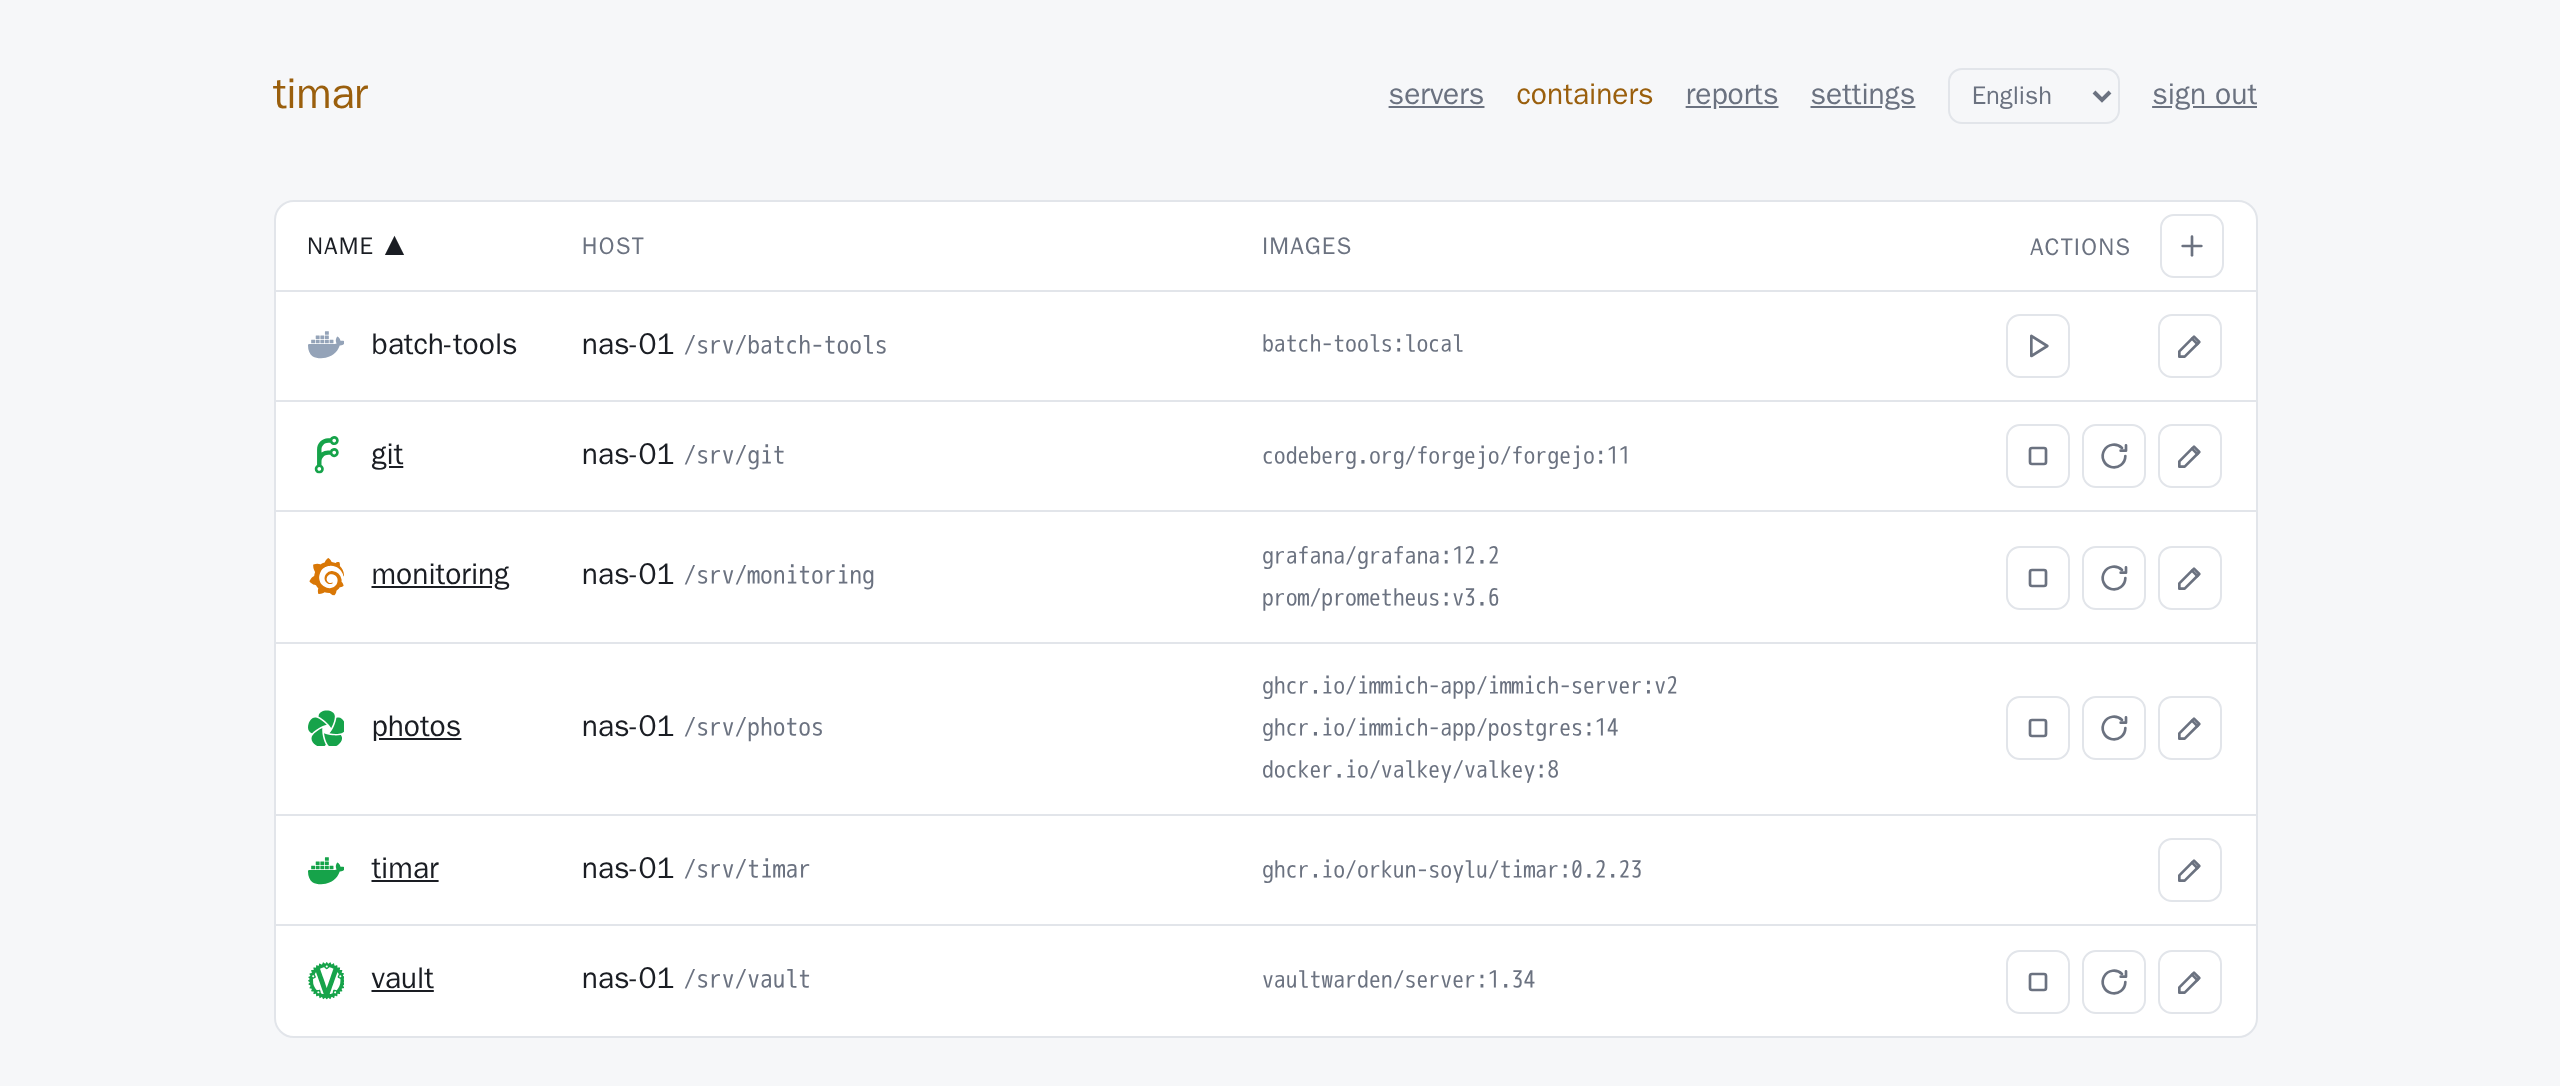
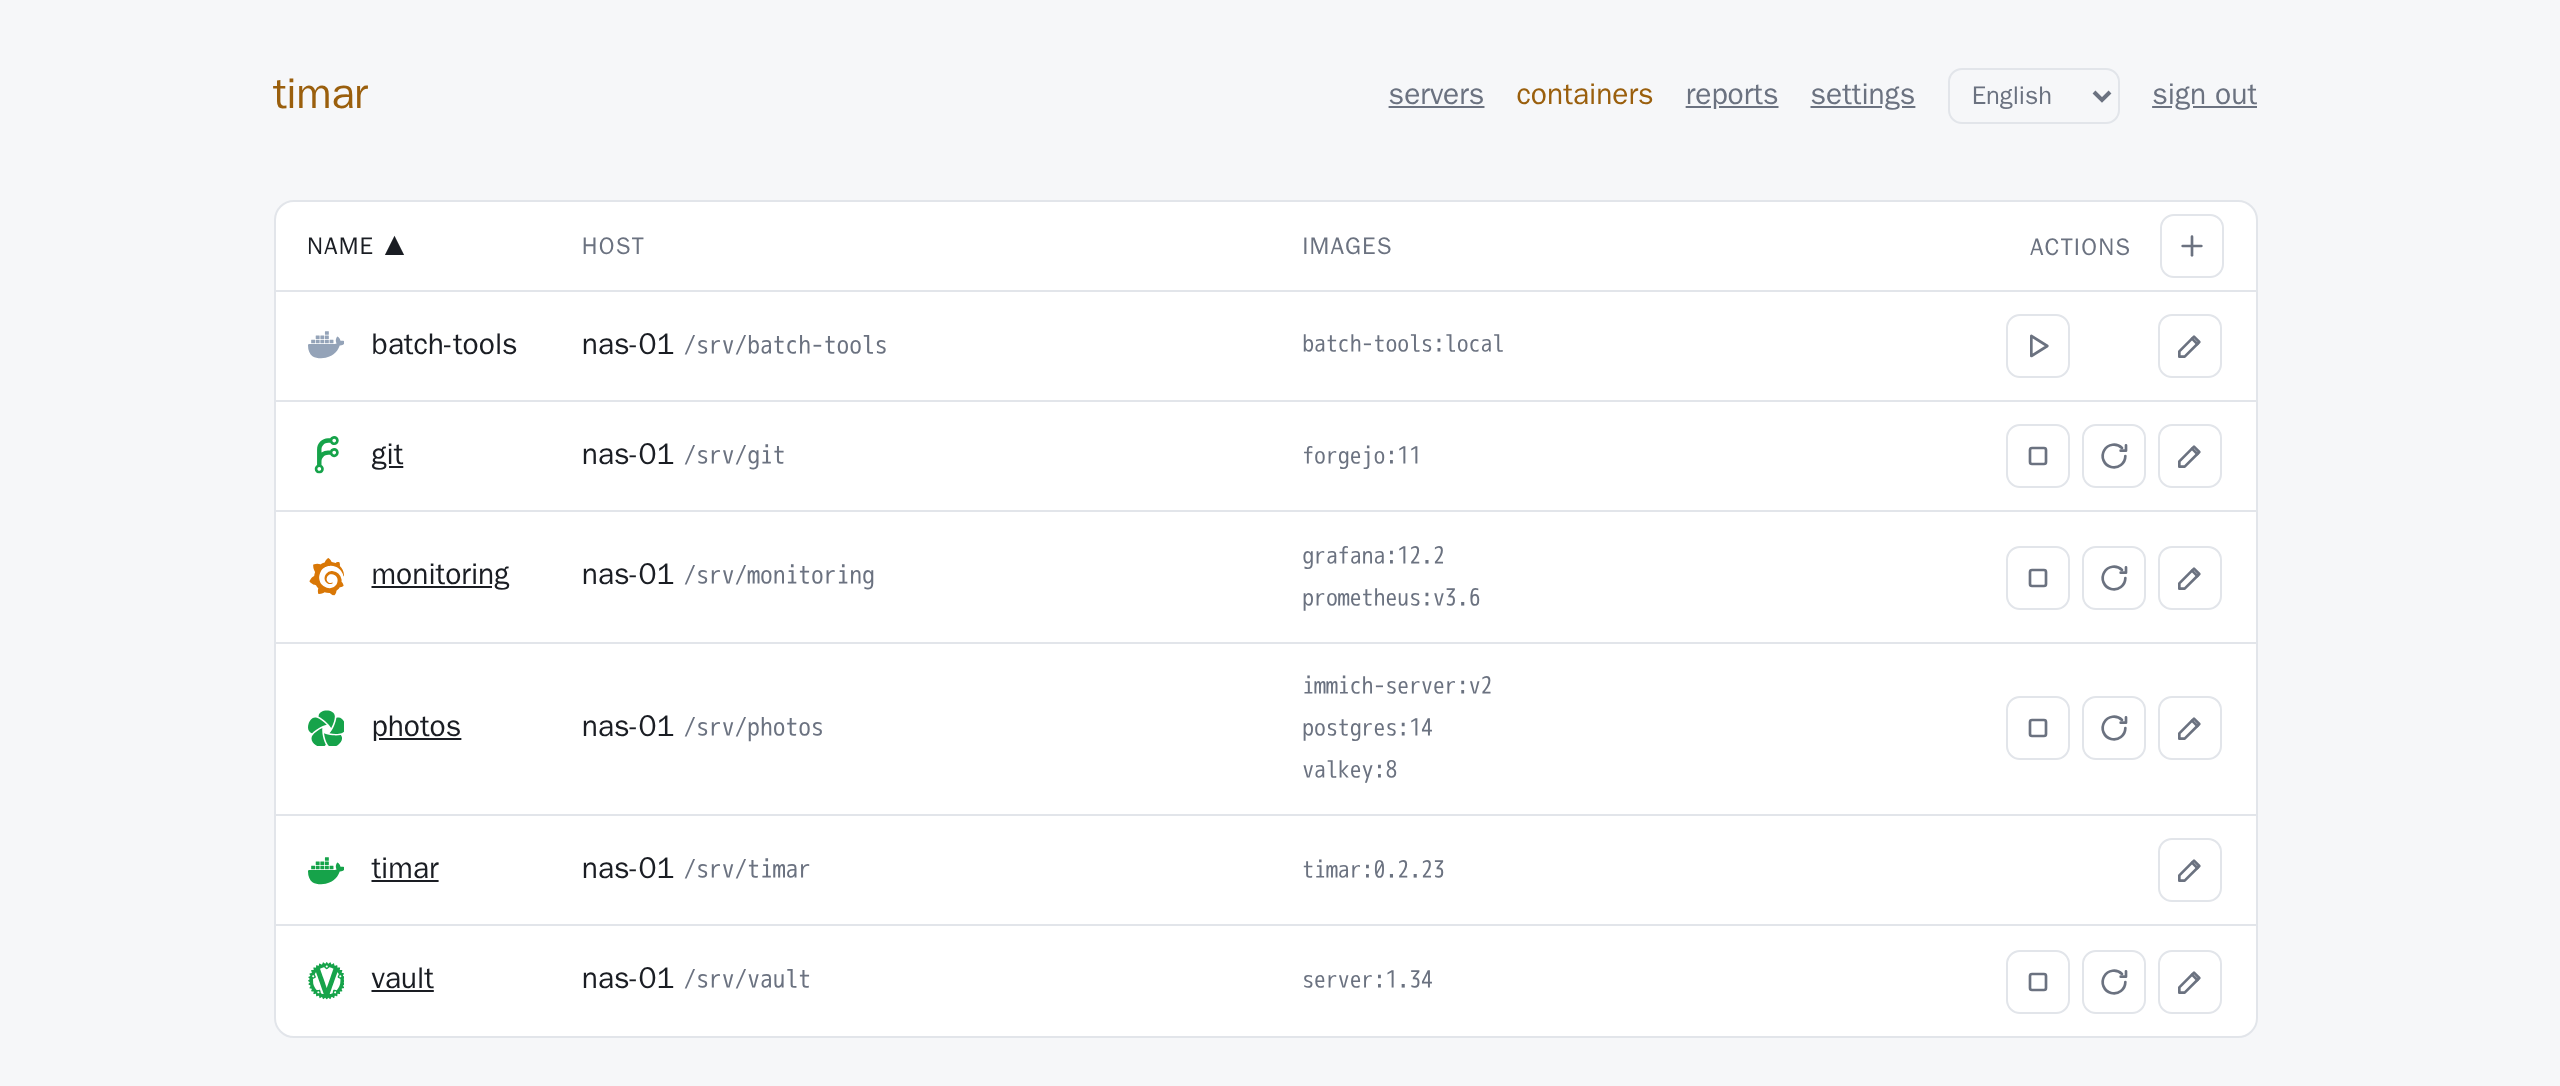
feat: short image names in the containers table (#83)
The images column showed whole references: registry, owner, tag and, before the cut, a digest.
`ghcr.io/immich-app/immich-server:v2` is now `immich-server:v2`. The full reference is the
cell's tooltip, so nothing is lost; that matters for names that are ambiguous once shortened,
such as `vaultwarden/server` becoming `server`. An image known only by its id shows
`sha256:` plus twelve characters, as `docker ps` does.

During the change, `short_image` was first inserted in the middle of `ProjectStatus`. That ended
the class early and swallowed its `running` property. Jinja read the missing attribute as false:
no links, no stop or restart buttons. The existing page test caught it, and the function now
sits outside the class.

Verified: 642 tests pass. Demo screenshots re-captured at the same size.

diff --git a/timar/web/templates/_containers.html b/timar/web/templates/_containers.html
@@ -29,7 +29,7 @@
         <a href="{{ p.web_url }}" target="_blank" rel="noopener noreferrer" title="{{ p.web_url }}">{{ p.name }}</a>
         {%- else %}{{ p.name }}{% endif %}</td>
       <td class="col-mid">{{ p.server }} <code class="wide">{{ p.path }}</code></td>
-      <td class="col-mid wide muted">{% for image in p.images %}<div><code>{{ image.split('@')[0] }}</code></div>{% else %}—{% endfor %}</td>
+      <td class="col-mid wide muted">{% for shown, full in p.image_rows %}<div><code title="{{ full }}">{{ shown }}</code></div>{% else %}—{% endfor %}</td>
       <td class="col-edge"><div class="icon-row">
         {%- if p.is_self %}
           <span class="icon-slot" title="{{ _("timar itself — not stopped from here") }}"></span><span class="icon-slot"></span>

diff --git a/tests/test_containers.py b/tests/test_containers.py
@@ -190,6 +190,22 @@ class TestAppLogo:
         assert containers._remembered_logo("h:/srv/other", "other", ()) == "docker"
 
 
+class TestShortImage:
+    """The images column shows what runs and at which tag; the full reference is the tooltip."""
+
+    @pytest.mark.parametrize("image, shown", [
+        ("ghcr.io/immich-app/immich-server:v2", "immich-server:v2"),
+        ("ghcr.io/immich-app/postgres:14@sha256:" + "a" * 64, "postgres:14"),     # digest dropped
+        ("vaultwarden/server:1.34", "server:1.34"),
+        ("traefik:v3", "traefik:v3"),
+        ("localhost:5000/team/app:1.2", "app:1.2"),       # a registry port is not a tag
+        ("app-app-backend", "app-app-backend"),            # a local build, untouched
+        ("sha256:" + "68b2a218869a" + "0" * 52, "sha256:68b2a218869a"),   # known only by its id
+    ])
+    def test_shown(self, image, shown):
+        assert containers.short_image(image) == shown
+
+
 class TestPage:
     @pytest.fixture
     def page(self, client, monkeypatch):
@@ -223,6 +239,20 @@ class TestPage:
         # Nothing created yet and no images ever seen: the whale.
         asleep = rows.split('<tr class="asleep">', 1)[1].split("</td>", 1)[0]
         assert "logos.svg#docker" in asleep and "· Docker" in asleep
+
+    def test_an_image_is_shown_short_with_the_whole_reference_on_hover(self, client, monkeypatch):
+        from timar import config
+        complete_setup(client)
+        config.save({"servers": [{"name": "docker-01", "host": "10.0.0.6", "user": "op", "platform": "linux"}],
+                     "containers": [{"name": "photos", "server": "docker-01", "path": "/srv/photos"}]})
+        monkeypatch.setattr(containers.fleet_status, "_probe", lambda host: True)
+        monkeypatch.setattr(containers, "self_container_id", lambda: None)
+        monkeypatch.setattr(containers, "_host_containers", lambda server: containers.HostContainers(
+            by_dir=containers.parse_ps(ps_line("/srv/photos", "immich-server",
+                                               image="ghcr.io/immich-app/immich-server:v2"))))
+        containers.invalidate()
+        rows = client.get("/fragments/containers").text
+        assert '<code title="ghcr.io/immich-app/immich-server:v2">immich-server:v2</code>' in rows
 
     def test_the_page_carries_the_menu_and_requires_a_session(self, page):
         assert 'aria-current="page">containers<' in page.get("/containers").text

diff --git a/timar/containers.py b/timar/containers.py
@@ -84,8 +84,27 @@ class ProjectStatus:
         return APP_LOGOS.get(self.logo, "Docker")
 
     @property
+    def image_rows(self) -> list[tuple[str, str]]:
+        """(shown, full) per image: the table shows the short name, the tooltip the whole one."""
+        return [(short_image(i), i.split("@")[0]) for i in self.images]
+
+
+    @property
     def running(self) -> bool:
         return self.state in ("up", "warn")
+
+
+def short_image(image: str) -> str:
+    """`ghcr.io/immich-app/immich-server:v2@sha256:…` → `immich-server:v2`.
+
+    The registry and the owner are dropped: the column is read for *what* runs and at which tag,
+    and the full reference, three times as long, pushed every row onto two lines. An image known
+    only by its id keeps twelve characters of it, as `docker ps` does.
+    """
+    ref = image.split("@")[0]
+    if ref.startswith("sha256:"):
+        return ref[:19]
+    return ref.rsplit("/", 1)[-1]
 
 
 # Slug → name, for each application symbol in `web/static/logos.svg` (Simple Icons, CC0).

diff --git a/CHANGELOG.md b/CHANGELOG.md
@@ -9,6 +9,13 @@ The format follows [Keep a Changelog](https://keepachangelog.com/en/1.1.0/). Ver
 
 ## [Unreleased]
 
+### Changed
+
+- **The images column is shorter:** `immich-server:v2` instead of
+  `ghcr.io/immich-app/immich-server:v2`. The registry and owner are dropped from the cell, and
+  the full reference is the tooltip. An image known only by its id shows twelve characters of
+  it.
+
 ### Added
 
 - **Each container project's light is its application's logo,** in the same state colours
